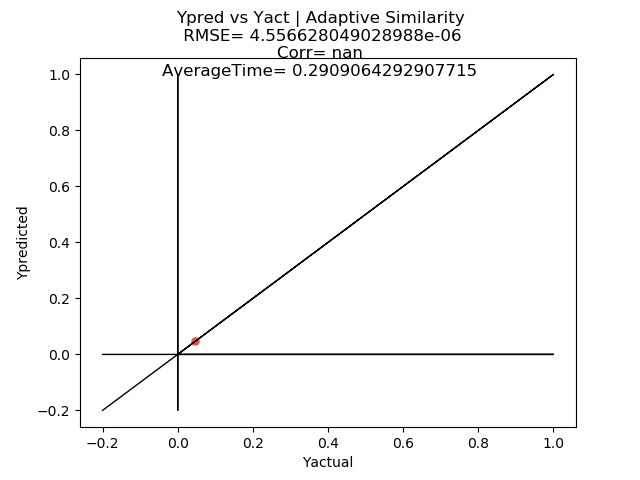
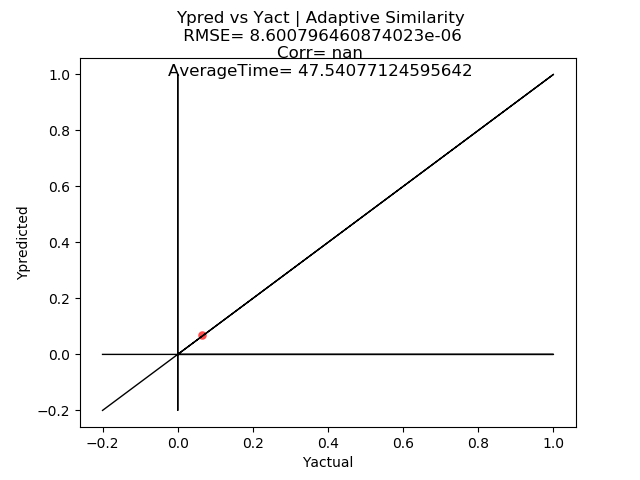
Adaptive_Similarity

Changed region(s): [[0.25, 0.125, 0.75, 0.1875], [0.375, 0.0625, 0.7188, 0.0938], [0.2812, 0.6875, 0.3438, 0.7188]]

diff --git a/JIT_AdaptiveSimilarity.py b/JIT_AdaptiveSimilarity.py
@@ -180,8 +180,6 @@ def weightedPLS(Xquery):
     
     pls2 = PLSRegression(n_components=2)
     pls2.fit(Xtrain, Ytrain)
-    Ypredict = pls2.predict([Xquery],copy=True)
-    Ypred=Ypredict[0][0]
     return pls2.coef_
 
 #%% 
@@ -205,6 +203,7 @@ thetaNew[0][1]=thetaNew[1][0]=0
 thetas1=[]
 thetas2=[]
 iterator=[]
+[Xpred]=normalize([Xpred],Xnorm)
 randA=random.sample(range(1, len(X)), 100)
 for _ in range(5):
     theta=thetaNew.copy()
@@ -212,7 +211,6 @@ for _ in range(5):
     thetas1.append(theta[0][0])
     thetas2.append(theta[1][1])
     iterator.append(_)
-    [Xpred]=normalize([Xpred],Xnorm)
     coeff1=[]
     coeff2=[]
     for q in randA:
@@ -232,7 +230,7 @@ plt.plot(iterator[1:],thetas1[1:])
 plt.plot(iterator[1:],thetas2[1:])
 plt.show()
 
-Ypred=weightedPLS(Xpred)
+Ypred=weightedPls(Xpred)
 Ypredicts.append(Ypred)
 T=Xpred[0]*Xnorm[0]
 R_lm=Xpred[1]*Xnorm[1]
